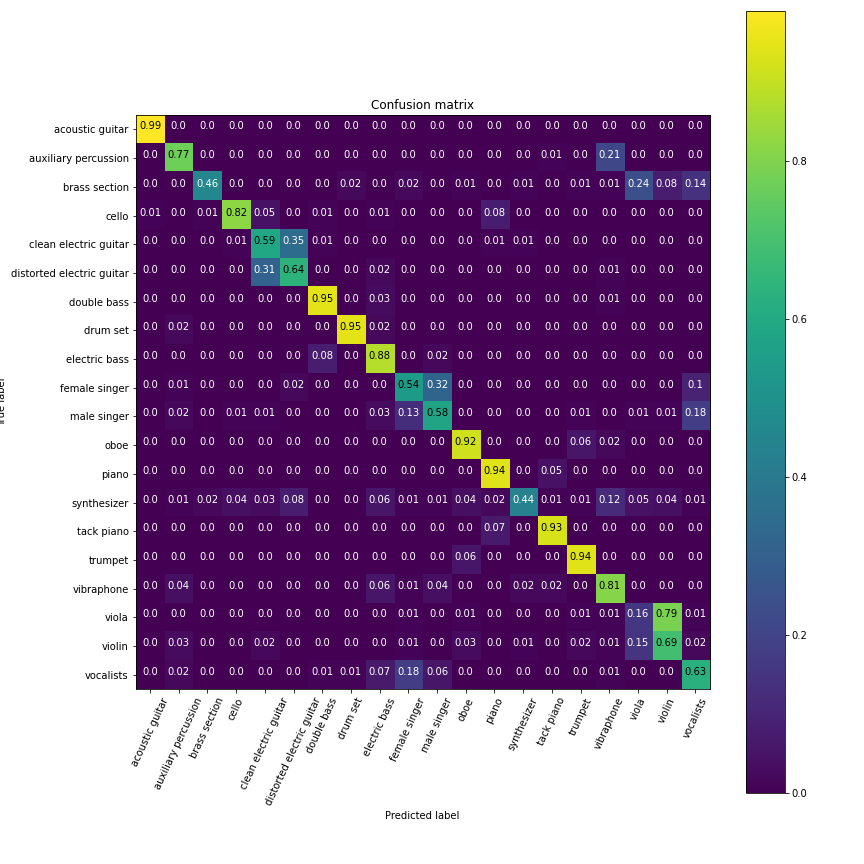
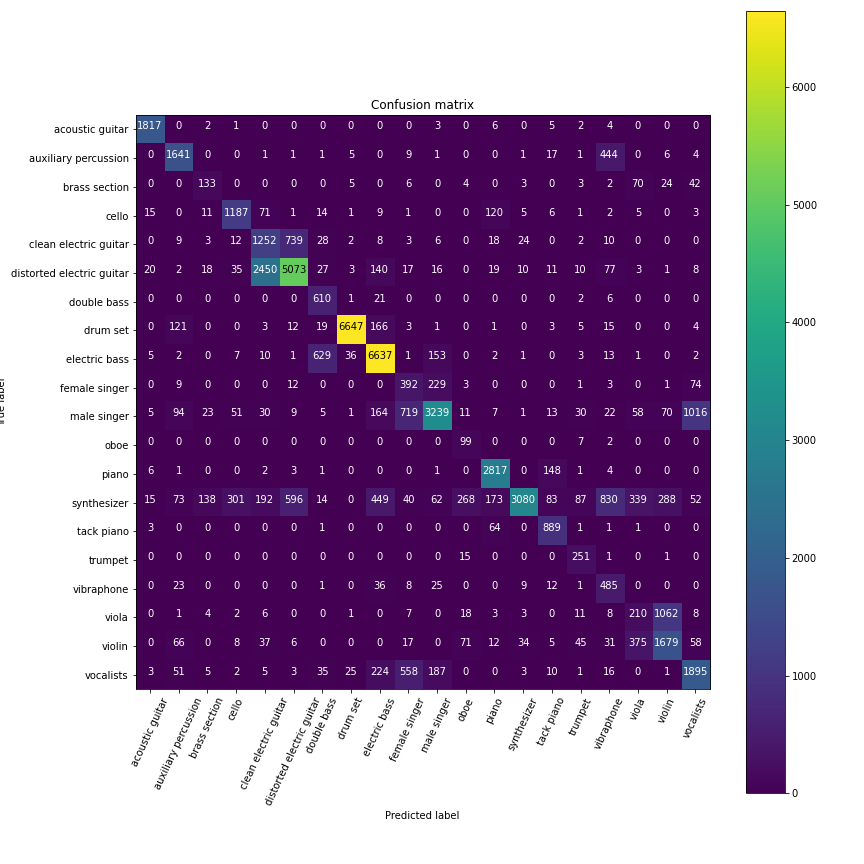
add more model info

diff --git a/index.md b/index.md
@@ -142,22 +142,30 @@ Where lambda is a linear interpolator drawn from a symmetric Beta distribution, 
 
 #### Experiment setup
 
-We evaluate the effect of mixup training on the predictive
-uncertainty and classification performance of our models. We train model variants with varying degrees of alpha ∈
-{0, 0.1, 0.2, 0.3, 0.4, 0.5, 0.6, 0.7}, where alpha = 0 is the baseline case, with no degree of interpolation between training
-samples. We do mixup at the embedding level.
+We evaluate the effect of mixup training on the predictive uncertainty and classification performance of our models. We train model variants with varying degrees of alpha ∈ {0, 0.1, 0.2, 0.3, 0.4, 0.5, 0.6, 0.7}, where alpha = 0 is the baseline case, with no degree of interpolation between training samples. We do mixup at the embedding level.
 
 #### Metrics
 
 We evaluate our models with two metrics: micro-averaged F1 score and expected calibration error (ECE).
 
+**F1 Score**
+The F1 score is a more preferable classification metric than accuracy because it takes dataset imbalance into account. We assume the reader is familiar with the definition of F1 score. 
+
+**Expected Calibration Error (ECE)**
+We use ECE as a scalar metric indicative of our model's predictive uncertainty. 
+
+The ECE of a classifier is defined as the expected difference between classifier's confidence and prediction accuracy. That is, a perfectly calibrated model with an accuracy of 70% for a set of predictions will have an average confidence of 70%. This is much more preferable than an overconfident model that is only 70% accurate but has an average confidence of 90%. 
+
+To calculate the ECE of a set of predictions, we bin the set of predictions into `M` bins and calculate the weighted average of the difference between accuracy and confidence: 
+
+![ece-definition](./images/ECE-def.png)
+
+where 
+- conf(Bₘ) if the average confidence of prediction in bin Bₘ 
+- acc(Bₘ) is the accuracy for the predictions in bin Bₘ
+- n is the total number of samples in all bins
+
 #### Results
-
-**Normalized Confusion Matrix**
-
-x axis represents predicted labels, while y axis represents true labels. 
-![normalized confusion matrix](./images/confusion-matrix.png)
-
 
 **Effect of Mixup on the Expected Calibration Error** *(lower is better)*
 ![plot of mixup alpha vs ece](./images/ece-test.png)
@@ -165,9 +173,18 @@ x axis represents predicted labels, while y axis represents true labels.
 **Effect of Mixup on F1 score** *(higher is better*)
 ![plot of mixup alpha vs f1](./images/f1-test.png)
 
-The model with `alpha = 0.4` achieves both the highest F1 score and lowest ECE. Additionaly, notice that F1 score drops with high `alpha`. We believe this is due to underfitting.
+The model with `alpha = 0.4` achieves both the highest F1 score and lowest ECE. We choose this model for our labeler. Additionaly, notice that F1 score drops with high `alpha`. We believe this is due to underfitting. 
 
 **Reliability Diagram**
 ![reliability diagram](./images/reliability-plot.png)
 
-The reliability diagram plots accuracy vs confidence for test set predictions. A model with perfect calibration will be as accuracte as it is confident, and would be visualized as the `y=x` line in our reliability plot.
+The reliability diagram plots accuracy vs confidence for test set predictions. To create a reliability diagram, we split our test set predictions into M bins and calculate the accuracy and confidence for each bin. Then, we sort the bins by confidence (X axis) and plot the accuracy with respect to confidence for each bin. 
+
+A model with perfect calibration will be as confident as it is accurate, and would be visualized as the `y=x` line in our reliability plot.
+
+**Normalized Confusion Matrix**
+
+Here is the normlized confusion matrix for our best model (`alpha` = 0.4):
+
+*x axis represents predicted labels, while y axis represents true labels.*
+![normalized confusion matrix](./images/norm-confusion-matrix.png)
